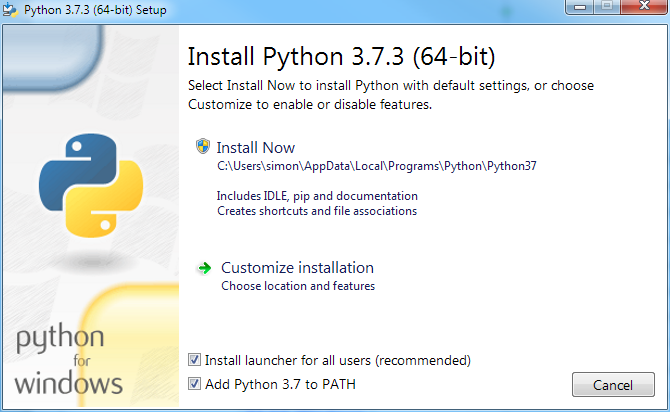
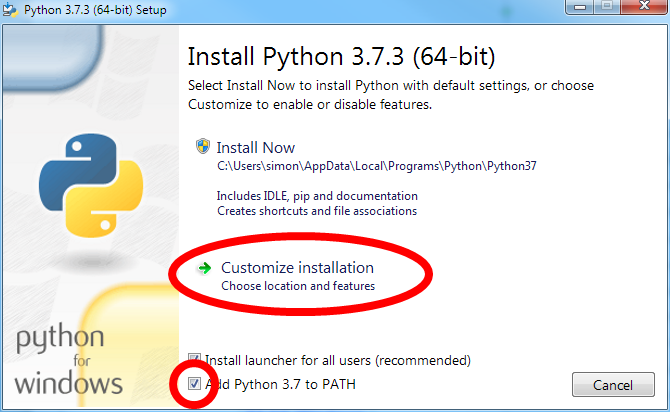
update

Changed region(s): [[0.2388, 0.5534, 0.6567, 0.7864], [0.2388, 0.8738, 0.3284, 1.0]]

diff --git a/Windows-installation/README.md b/Windows-installation/README.md
@@ -27,12 +27,9 @@ When the Control Panel opens if there is an item called "System" then click on t
 
 If there isn't an icon called "System" but there is a category called "System and Security" then click on this then click on "System" in the new display.
 
-For Windows 7 the display will look like this:
-
-![alt text](Windows7_OS.png "Operating system")
+The display will look very similar to the Windows 7 display shown above.
 
 The item labelled "System type:" will show you whether your operating system is 32-bit or 64-bit.
-
 
 
 ### 2. Go to the Python Releases for Windows download web page
@@ -47,7 +44,7 @@ Here is what the link looks like:
 
 From the two options at the top of the page select the one called "Latest Python 3 Release"
 
-In this example the latest Python version is 3.7.3, but this might be different if you download Python later.
+In this example the latest Python version is 3.7.3, but this might be different if you download Python at a later time.
 
 The link will go to a page which looks like this (again, the version number might not be 3.7.3):
 
@@ -67,3 +64,36 @@ Open Windows Explorer (if you have Windows 7) or File Explorer (if you have Wind
 You will probably see a window like this:
 
 ![alt text](Security_warning.png "Security Warning")
+
+Click Run. This will open the first Set up window:
+
+![alt text](Setup_1.png "Setup 1")
+
+Make sure there is a tick in the box labelled "Add Python to PATH". (You might have to click in this box.)
+
+Then click on Customize installation. This will open the second Set up window:
+
+![alt text](Setup_2.png "Setup 2")
+
+There is nothing to be changed on this page, so click Next to open the third Set up window:
+
+![alt text](Setup_3_advised.png "Setup 3")
+
+When this window opens it will probably show the Customize install location as C:\Users\<your name>\AppData...\Python37
+
+We strongly recommend changing this to C:\Python\Python37
+
+(Note: if you are installing a later version of Python the number 37 might be replaced with a higher number.)
+
+Once you have changed to install location click on Install. This will probably open a window like this:
+
+![alt text](UAC.png "Setup 3")
+
+Click on Yes to complete the Python installation. This may take a few minutes.
+
+
+### 4. Open the Python IDLE editor
+
+Once the installation is finished click on the Windows key. Type the word Python, and it should find a program called IDLE (with the Python version in brackets after it).
+
+Click on this to open up the Python Shell window. 
